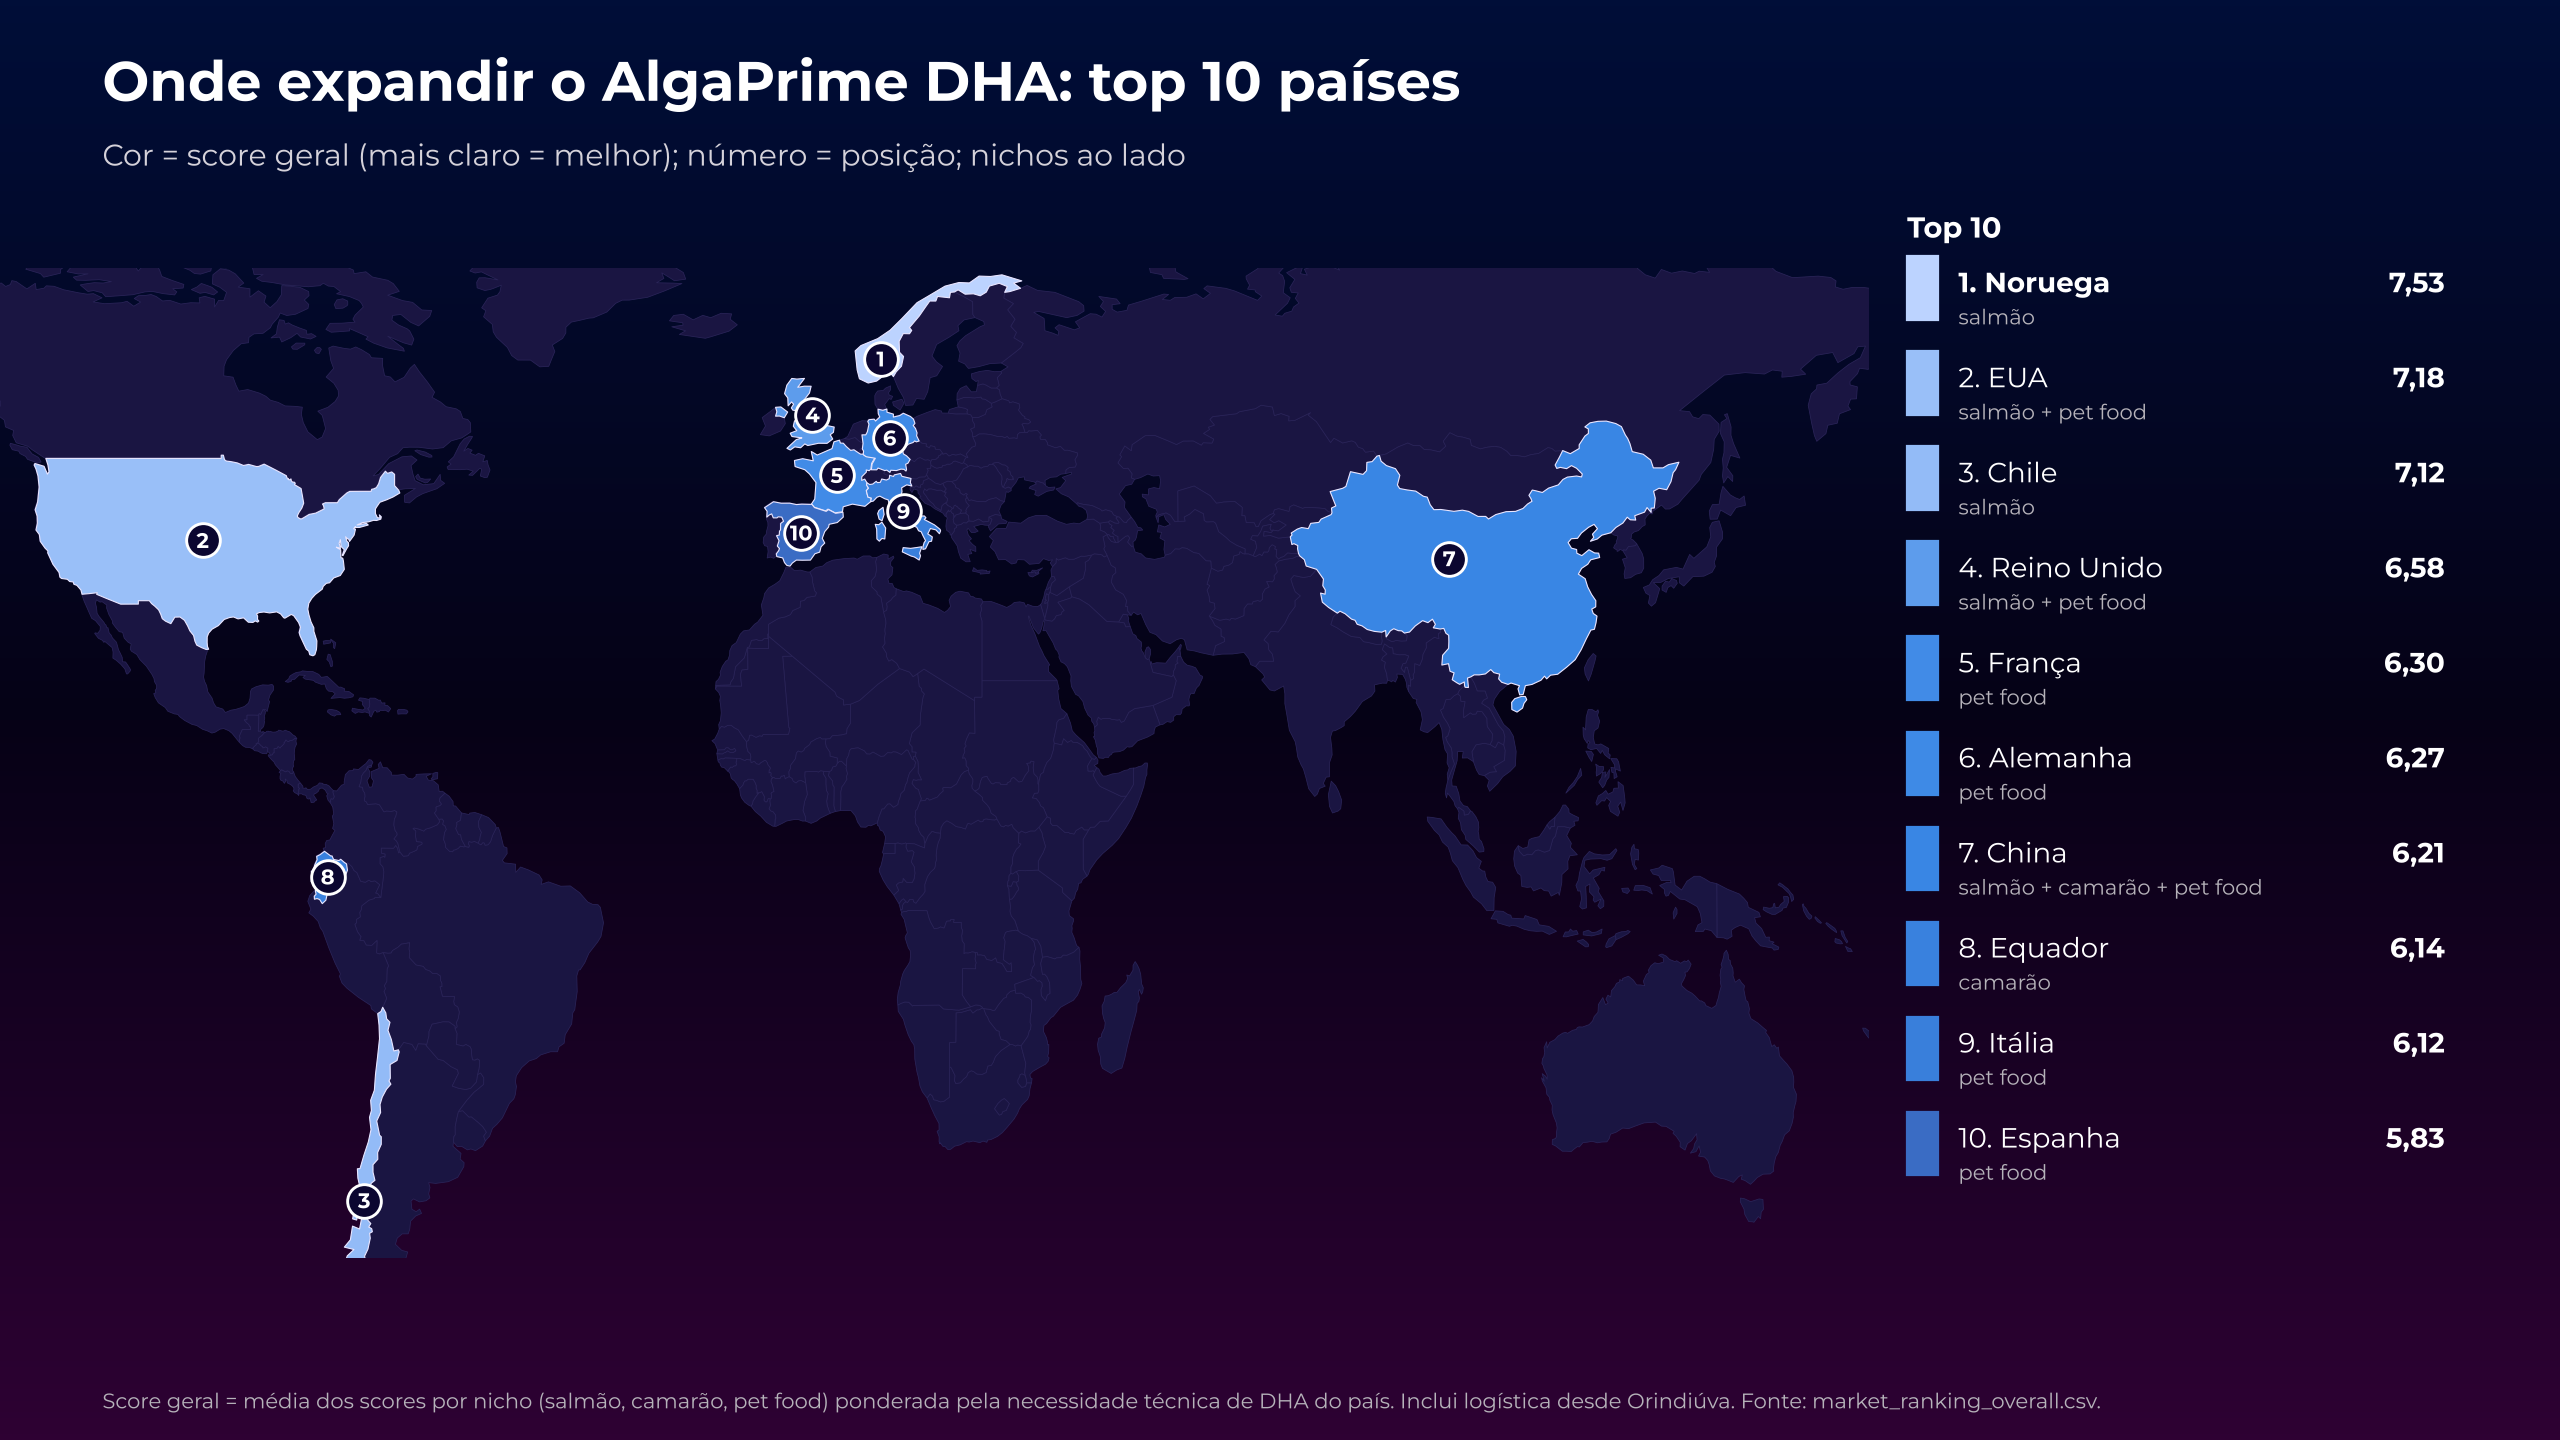
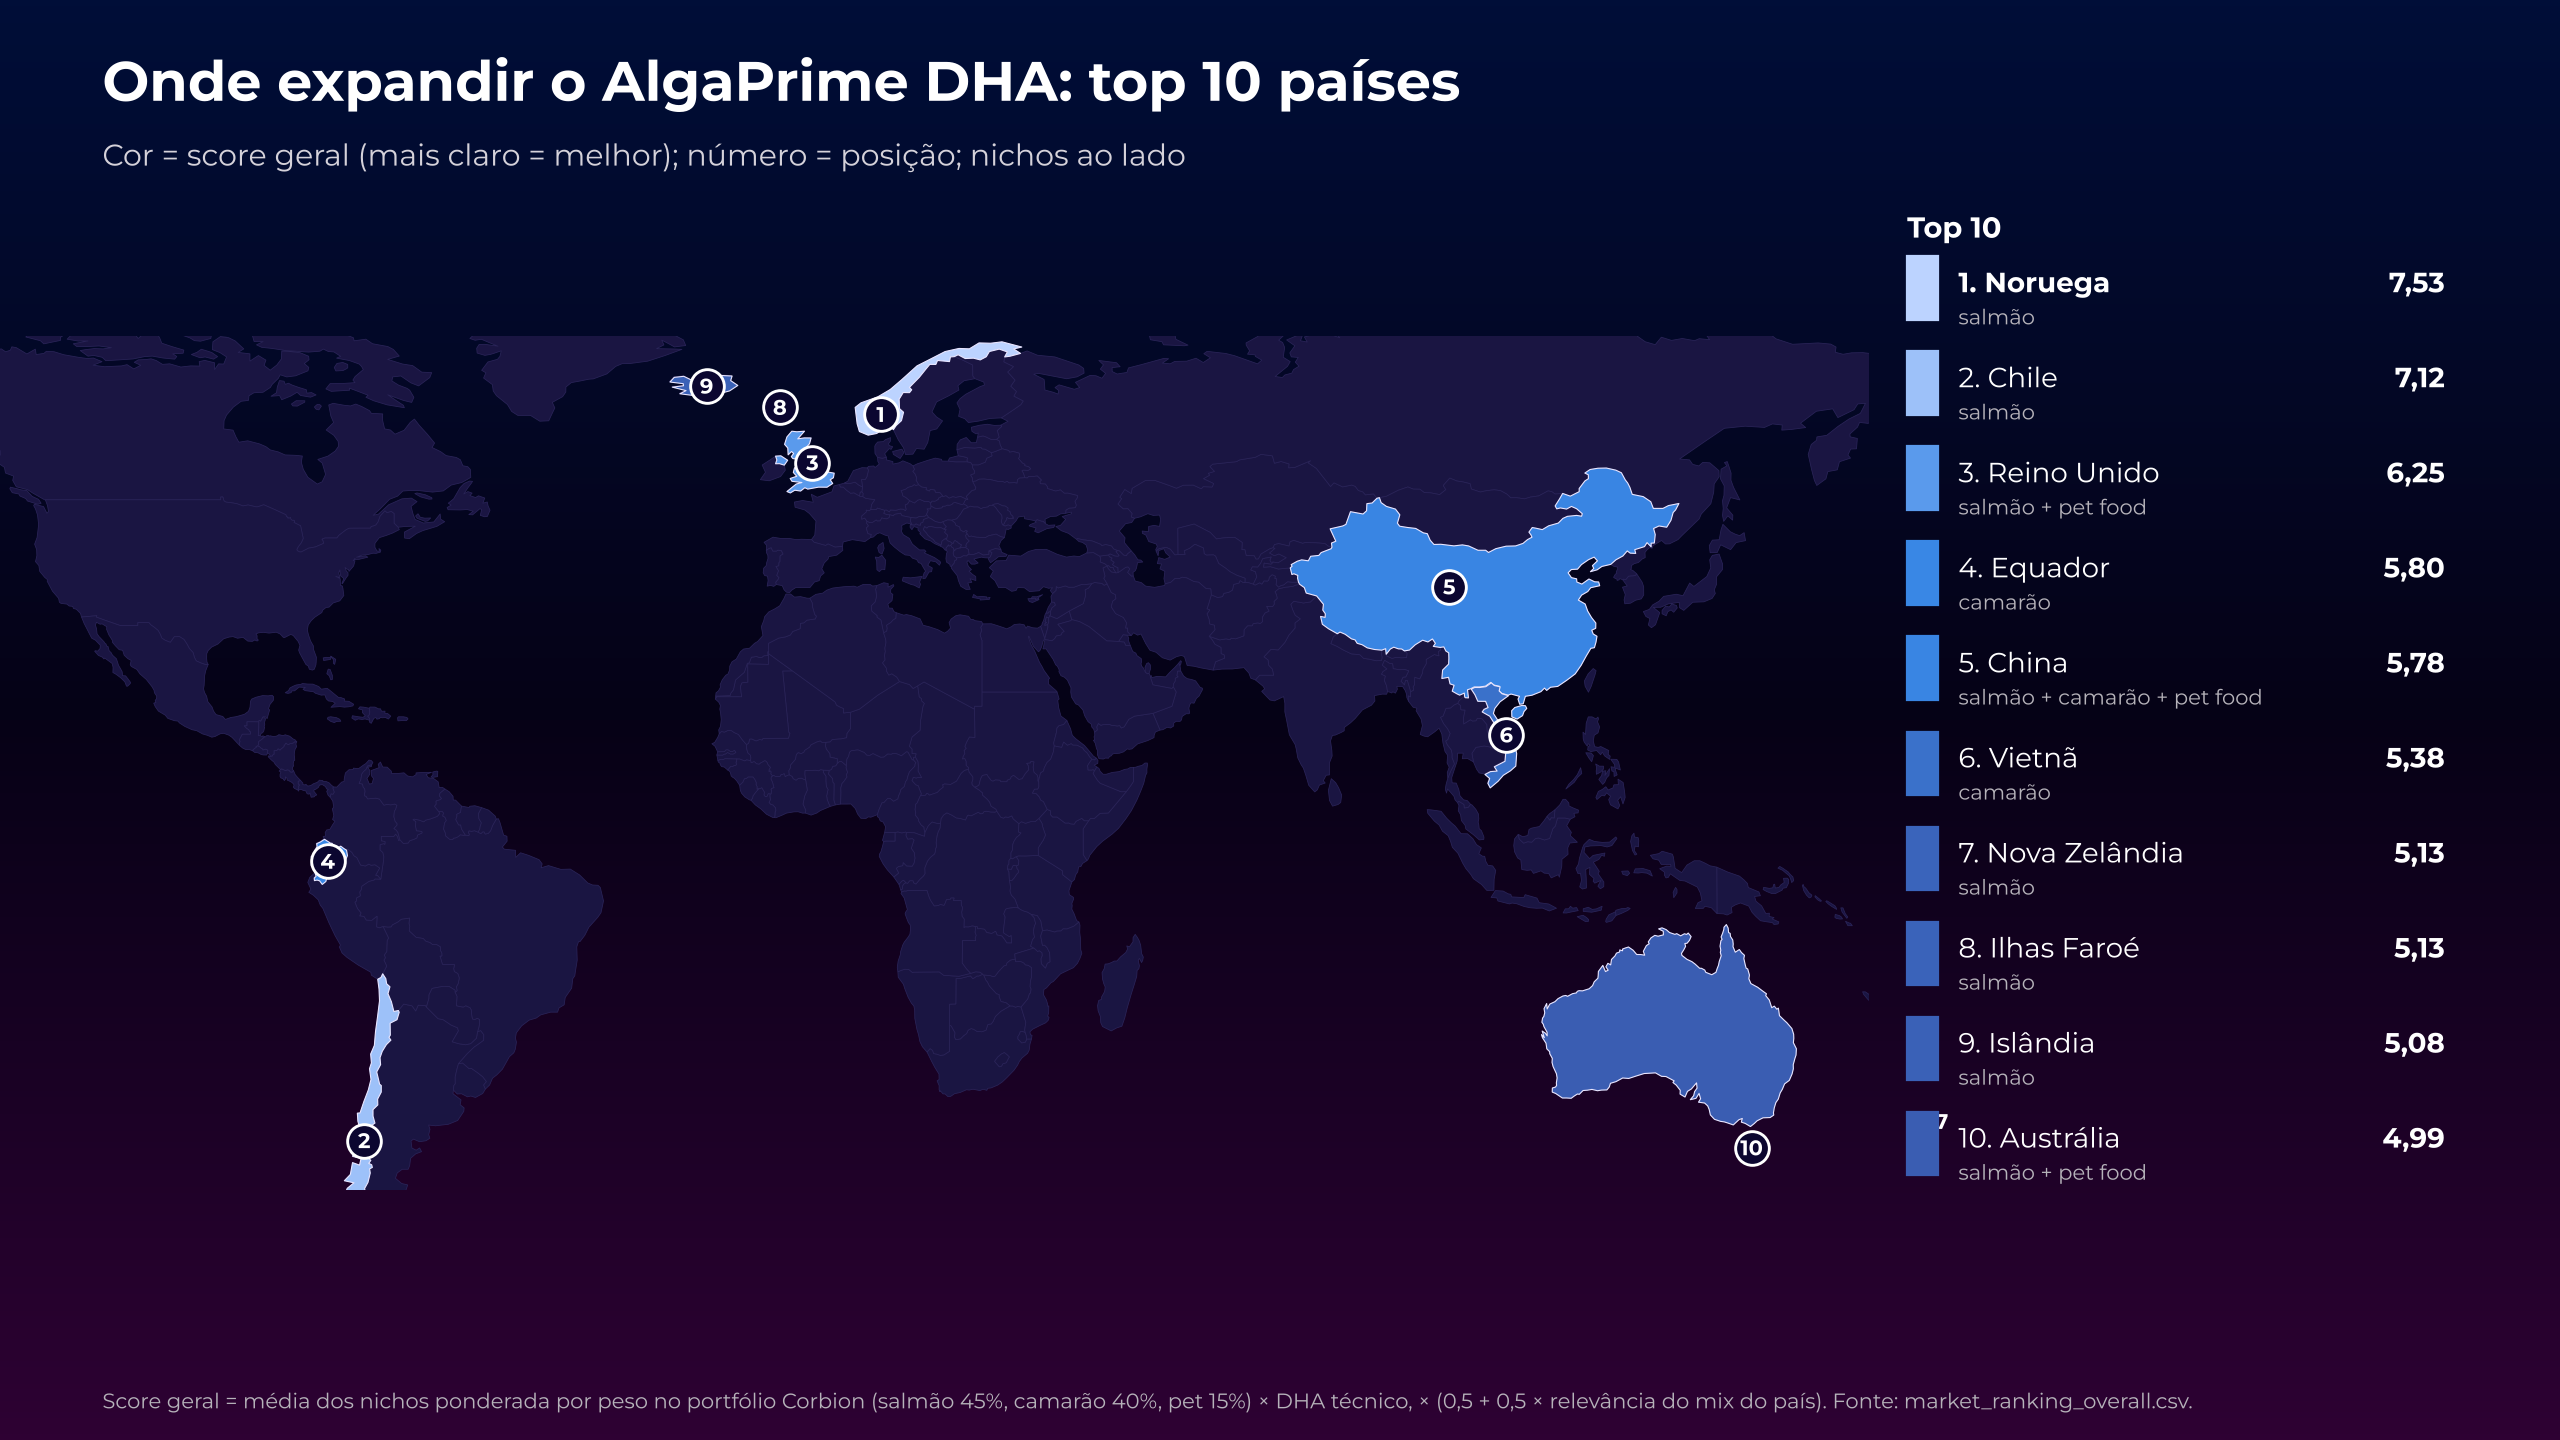
Overall market ranking: Corbion portfolio niche weights (salmon 45, shrimp 40, pet 15) and relevance factor
Claude-Session: https://claude.ai/code/session_01LMFBxB1pEsecc2Ue9bVkC4

diff --git a/microalgae_site_selection/country_ranking/src/market.py b/microalgae_site_selection/country_ranking/src/market.py
@@ -207,9 +207,15 @@ def run_niche(cfg: dict, data: pd.DataFrame, niche: str, n_mc: int, n_dir: int) 
                 contributions=crit.mul(pd.Series(base_w)))
 
 
-def overall(results: dict) -> pd.DataFrame:
-    """Country score = sum over niches of niche score x share of the country's technical DHA need in that niche.
-    Niche goalposts for DHA need are common (30–10,000 t), so size is comparable across niches."""
+def overall(results: dict, cfg: dict | None = None) -> pd.DataFrame:
+    """Country score in two steps (rev. 26/10):
+    quality   = Σ niche score × (niche weight × DHA need) / Σ (niche weight × DHA need)  [weights inside the country]
+    relevance = DHA-need-weighted mean niche weight / max niche weight  (1 = all demand in the top niche)
+    overall   = quality × (floor + (1 − floor) × relevance)
+    Niche weights = Corbion portfolio premise (salmon and shrimp dominate, pet food is a minority)."""
+    cfg = cfg or load_config()
+    nw = cfg.get("niche_weights", {"salmon": 1.0, "shrimp": 1.0, "pet": 1.0})
+    floor = cfg.get("relevance_floor", 1.0)
     rows = []
     for niche, r in results.items():
         t = r["table"]
@@ -218,11 +224,17 @@ def overall(results: dict) -> pd.DataFrame:
                              niche_rank=int(t["rank"][c])))
     pairs = pd.DataFrame(rows)
     pairs["dha_need_t"] = pairs.dha_need_t.fillna(0.0)
+    pairs["niche_weight"] = pairs.niche.map(nw)
     out = []
     for c, g in pairs.groupby("country"):
-        w = g.dha_need_t / g.dha_need_t.sum() if g.dha_need_t.sum() > 0 else pd.Series(1 / len(g), index=g.index)
+        a = g.niche_weight * g.dha_need_t
+        w = a / a.sum() if a.sum() > 0 else g.niche_weight / g.niche_weight.sum()
+        need = g.dha_need_t / g.dha_need_t.sum() if g.dha_need_t.sum() > 0 else pd.Series(1 / len(g), index=g.index)
+        rel = float((g.niche_weight * need).sum() / max(nw.values()))
+        q = float((g.score * w).sum())
         best = g.sort_values("score", ascending=False).iloc[0]
-        out.append(dict(country=c, overall_score=float((g.score * w).sum()), dha_need_total_t=g.dha_need_t.sum(),
+        out.append(dict(country=c, overall_score=q * (floor + (1 - floor) * rel), quality_score=q, relevance=rel,
+                        dha_need_total_t=g.dha_need_t.sum(),
                         niches=", ".join(f"{n} ({s:.2f})" for n, s in zip(g.niche, g.score)),
                         best_niche=best.niche, best_niche_score=best.score, n_niches=len(g)))
     ov = pd.DataFrame(out).set_index("country")
@@ -236,7 +248,7 @@ def run_all(n_mc: int | None = None, charts: bool = True) -> dict:
     OUT.mkdir(parents=True, exist_ok=True)
     PROC.mkdir(parents=True, exist_ok=True)
     res = {n: run_niche(cfg, data, n, n_mc or cfg["mc_sims"], cfg["dirichlet_draws"]) for n in cfg["niches"]}
-    ov, pairs = overall(res)
+    ov, pairs = overall(res, cfg)
     pd.concat([r["data"] for r in res.values()]).sort_values(["niche", "country", "metric_id"]) \
         .to_csv(PROC / "market_inputs_long.csv", index=False)
     for n, r in res.items():

diff --git a/microalgae_site_selection/country_ranking/src/market_report.py b/microalgae_site_selection/country_ranking/src/market_report.py
@@ -41,7 +41,7 @@ def charts(out: dict) -> None:
     pairs = out["pairs"]
     # overall bar chart coloured by niche contribution
     fig = C.slide(f"Ranking geral: top {N} países para expandir o AlgaPrime DHA",
-                  "Score do país = média dos scores por nicho, ponderada pela necessidade técnica de DHA do país em cada nicho",
+                  "Score = média dos nichos ponderada por peso no portfólio (salmão 45%, camarão 40%, pet 15%) × DHA técnico, ajustada pela relevância",
                   "Fonte: market_ranking_overall.csv. Nichos: salmão, camarão e pet food (ranking próprio em cada um).")
     ax = fig.add_axes([0.20, 0.10, 0.62, 0.72])
     order = list(ov.index)
@@ -72,8 +72,8 @@ def charts(out: dict) -> None:
     side = {c: " + ".join(NICHE_PT[x.split(" ")[0]] for x in t.niches[c].split(", ")) for c in t.index}
     C.ranked_map(t, OUT / "market_map.png", f"Onde expandir o AlgaPrime DHA: top {N} países",
                  "Cor = score geral (mais claro = melhor); número = posição; nichos ao lado",
-                 "Score geral = média dos scores por nicho (salmão, camarão, pet food) ponderada pela necessidade técnica de "
-                 "DHA do país. Inclui logística desde Orindiúva. Fonte: market_ranking_overall.csv.",
+                 "Score geral = média dos nichos ponderada por peso no portfólio Corbion (salmão 45%, camarão 40%, pet 15%) × DHA "
+                 "técnico, × (0,5 + 0,5 × relevância do mix do país). Fonte: market_ranking_overall.csv.",
                  top_n=N, side_text=side, points=POINTS)
 
 

diff --git a/microalgae_site_selection/country_ranking/tests/test_market.py b/microalgae_site_selection/country_ranking/tests/test_market.py
@@ -49,13 +49,21 @@ def test_dha_need_formula(res):
     assert need == pytest.approx(feed * cfg["dha_g_per_kg_feed"]["salmon"] / 1000, rel=1e-3)
 
 
-def test_overall_is_dha_weighted_average(res):
+def test_overall_is_portfolio_weighted(res):
     _, r = res
-    ov, pairs = M.overall(r)
+    cfg = M.load_config()
+    nw, fl = cfg["niche_weights"], cfg["relevance_floor"]
+    ov, pairs = M.overall(r, cfg)
     for c in ["United States", "China", "Norway"]:
         g = pairs[pairs.country == c]
-        w = g.dha_need_t / g.dha_need_t.sum()
-        assert ov.overall_score[c] == pytest.approx(float((g.score * w).sum()))
+        a = g.niche.map(nw) * g.dha_need_t
+        q = float((g.score * a / a.sum()).sum())
+        rel = float((g.niche.map(nw) * g.dha_need_t / g.dha_need_t.sum()).sum() / max(nw.values()))
+        assert ov.quality_score[c] == pytest.approx(q)
+        assert ov.overall_score[c] == pytest.approx(q * (fl + (1 - fl) * rel))
+    # pet-only country is discounted vs. its quality score
+    pet_only = ov[ov.niches.str.startswith("pet") & (ov.n_niches == 1)]
+    assert (pet_only.overall_score < pet_only.quality_score).all()
     assert ov.overall_score.between(0, 10).all()
 
 

diff --git a/microalgae_site_selection/country_ranking/outputs/market/market_country_memo.md b/microalgae_site_selection/country_ranking/outputs/market/market_country_memo.md
@@ -6,7 +6,7 @@
 
 ## 1. Resposta
 
-**Ranking geral (top 5):** 1. Noruega (7,53, melhor nicho: salmão), 2. EUA (7,18, melhor nicho: pet food), 3. Chile (7,12, melhor nicho: salmão), 4. Reino Unido (6,58, melhor nicho: salmão), 5. França (6,30, melhor nicho: pet food).
+**Ranking geral (top 5):** 1. Noruega (7,53, melhor nicho: salmão), 2. Chile (7,12, melhor nicho: salmão), 3. Reino Unido (6,25, melhor nicho: salmão), 4. Equador (5,80, melhor nicho: camarão), 5. China (5,78, melhor nicho: camarão).
 
 - **Salmão:** 1º Noruega (7,53), 2º Chile (7,12), 3º Reino Unido (6,76). Noruega é 1º em 96% dos sorteios de pesos e em 74% das simulações de dados; só com métricas quantitativas o 1º é Noruega.
 - **Camarão:** 1º China (6,47), 2º Equador (6,14), 3º Vietnã (5,70). China é 1º em 74% dos sorteios de pesos e em 69% das simulações de dados; só com métricas quantitativas o 1º é China.
@@ -66,15 +66,15 @@
 | # | País | Score geral | DHA técnico total (t/ano) | Nichos (score) | Papel |
 |---|---|---|---|---|---|
 | 1 | Noruega | **7.53** | 13.091 | salmão (7.53) | consolidar |
-| 2 | EUA | **7.18** | 3.545 | salmão (4.60), pet (7.24) | consolidar |
-| 3 | Chile | **7.12** | 7.632 | salmão (7.12) | consolidar |
-| 4 | Reino Unido | **6.58** | 1.590 | salmão (6.76), pet (5.88) | consolidar |
-| 5 | França | **6.30** | 609 | pet (6.30) | consolidar |
-| 6 | Alemanha | **6.27** | 528 | pet (6.27) | consolidar |
-| 7 | China | **6.21** | 5.883 | salmão (4.83), camarão (6.47), pet (4.89) | consolidar |
-| 8 | Equador | **6.14** | 6.696 | camarão (6.14) | consolidar |
-| 9 | Itália | **6.12** | 222 | pet (6.12) | consolidar |
-| 10 | Espanha | **5.83** | 353 | pet (5.83) | consolidar |
+| 2 | Chile | **7.12** | 7.632 | salmão (7.12) | consolidar |
+| 3 | Reino Unido | **6.25** | 1.590 | salmão (6.76), pet (5.88) | consolidar |
+| 4 | Equador | **5.80** | 6.696 | camarão (6.14) | consolidar |
+| 5 | China | **5.78** | 5.883 | salmão (4.83), camarão (6.47), pet (4.89) | consolidar |
+| 6 | Vietnã | **5.38** | 3.024 | camarão (5.70) | expandir |
+| 7 | Nova Zelândia | **5.13** | 86 | salmão (5.13) | monitorar |
+| 8 | Ilhas Faroé | **5.13** | 729 | salmão (5.13) | expandir |
+| 9 | Islândia | **5.08** | 389 | salmão (5.08) | expandir |
+| 10 | Austrália | **4.99** | 640 | salmão (5.35), pet (6.02) | expandir |
 
 *Papel:* consolidar = acesso ≥ 5 no melhor nicho; expandir = acesso < 5 e tamanho/crescimento ≥ 5; monitorar = demais.
 
